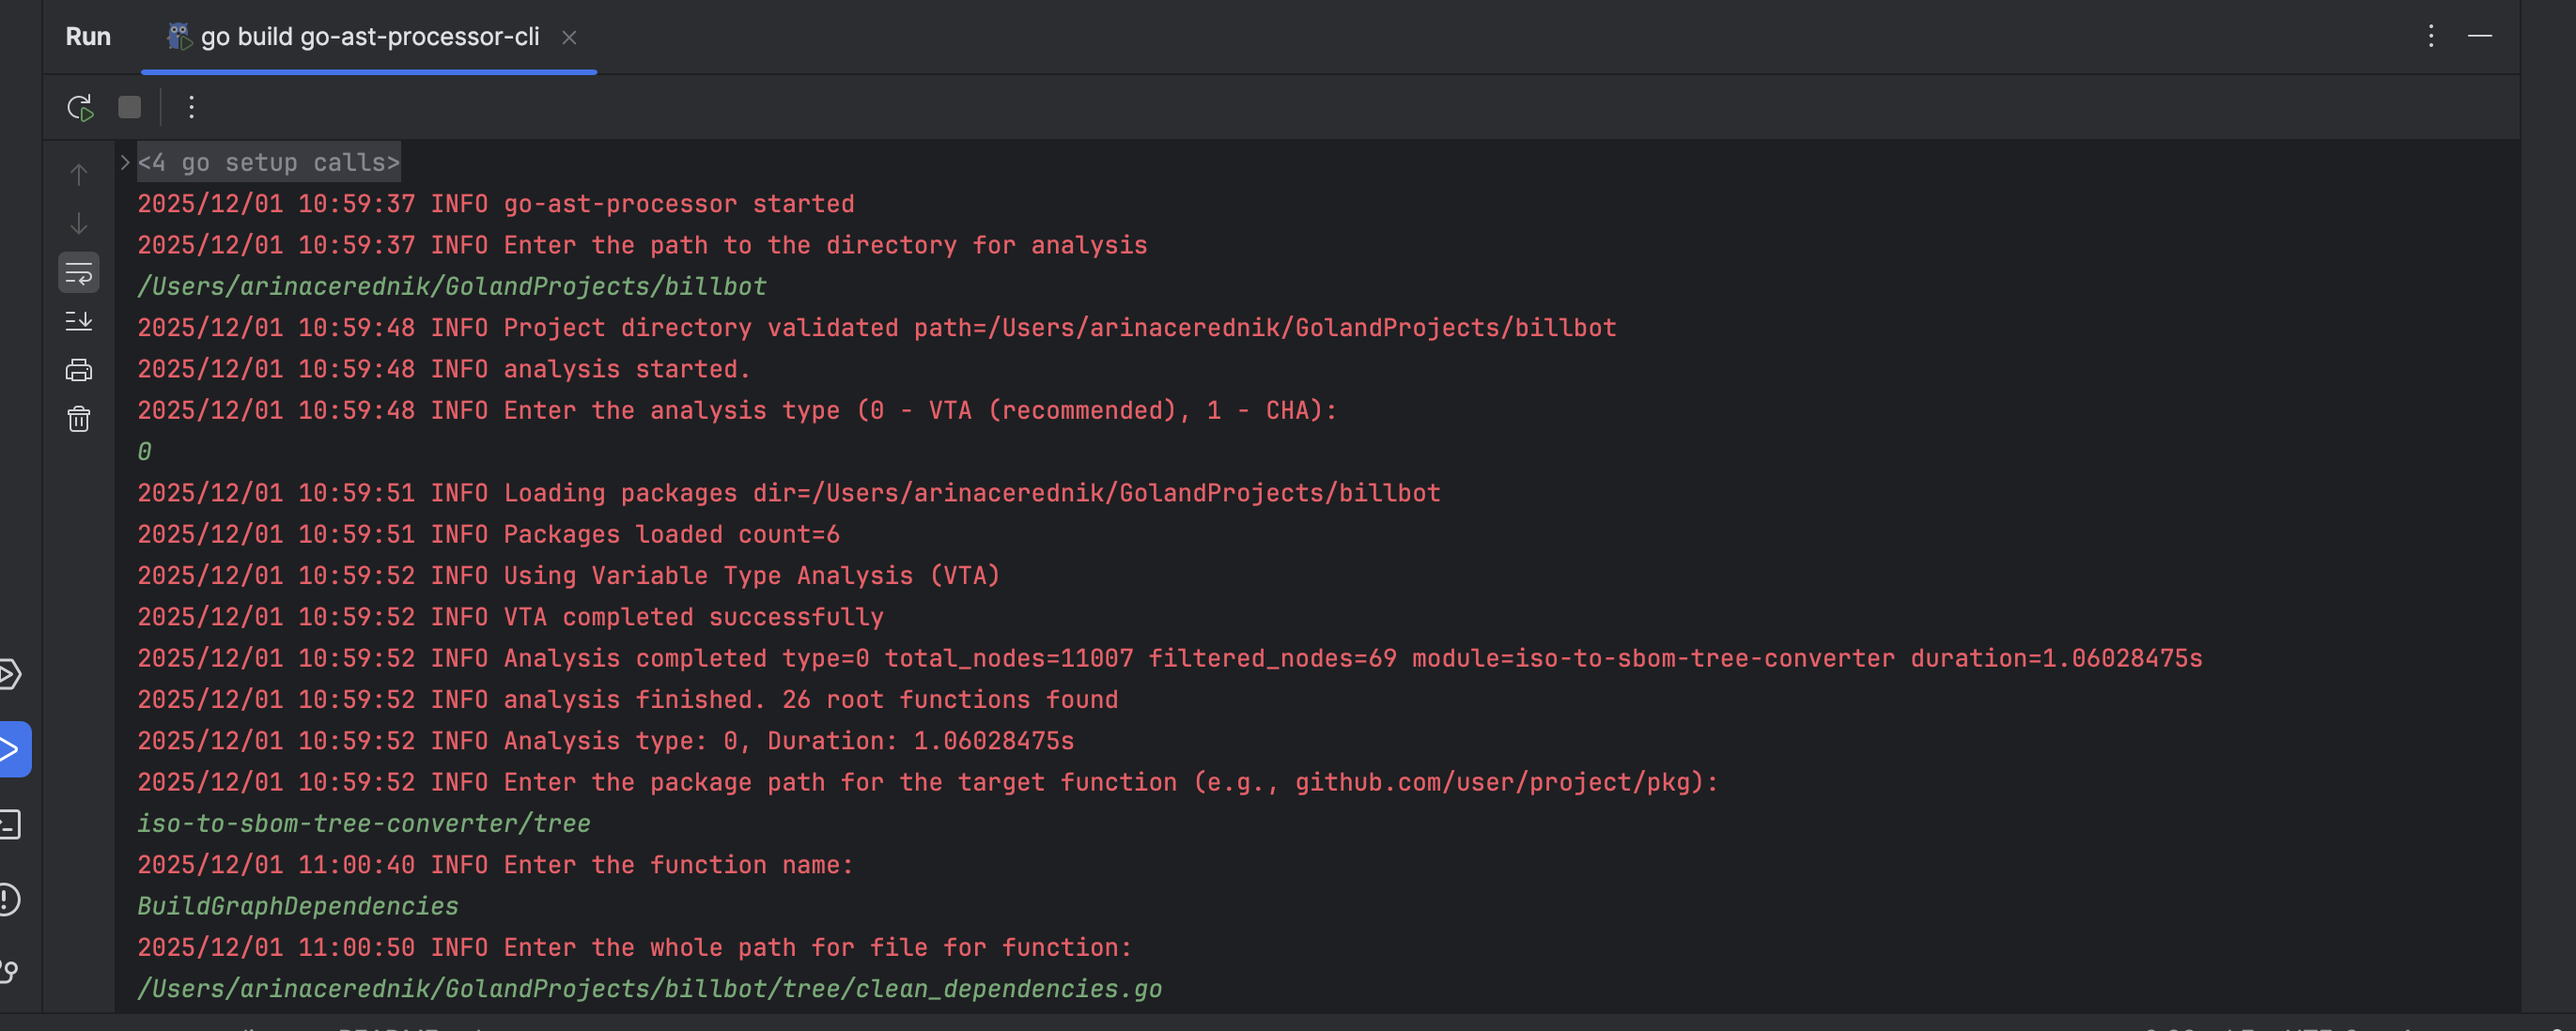
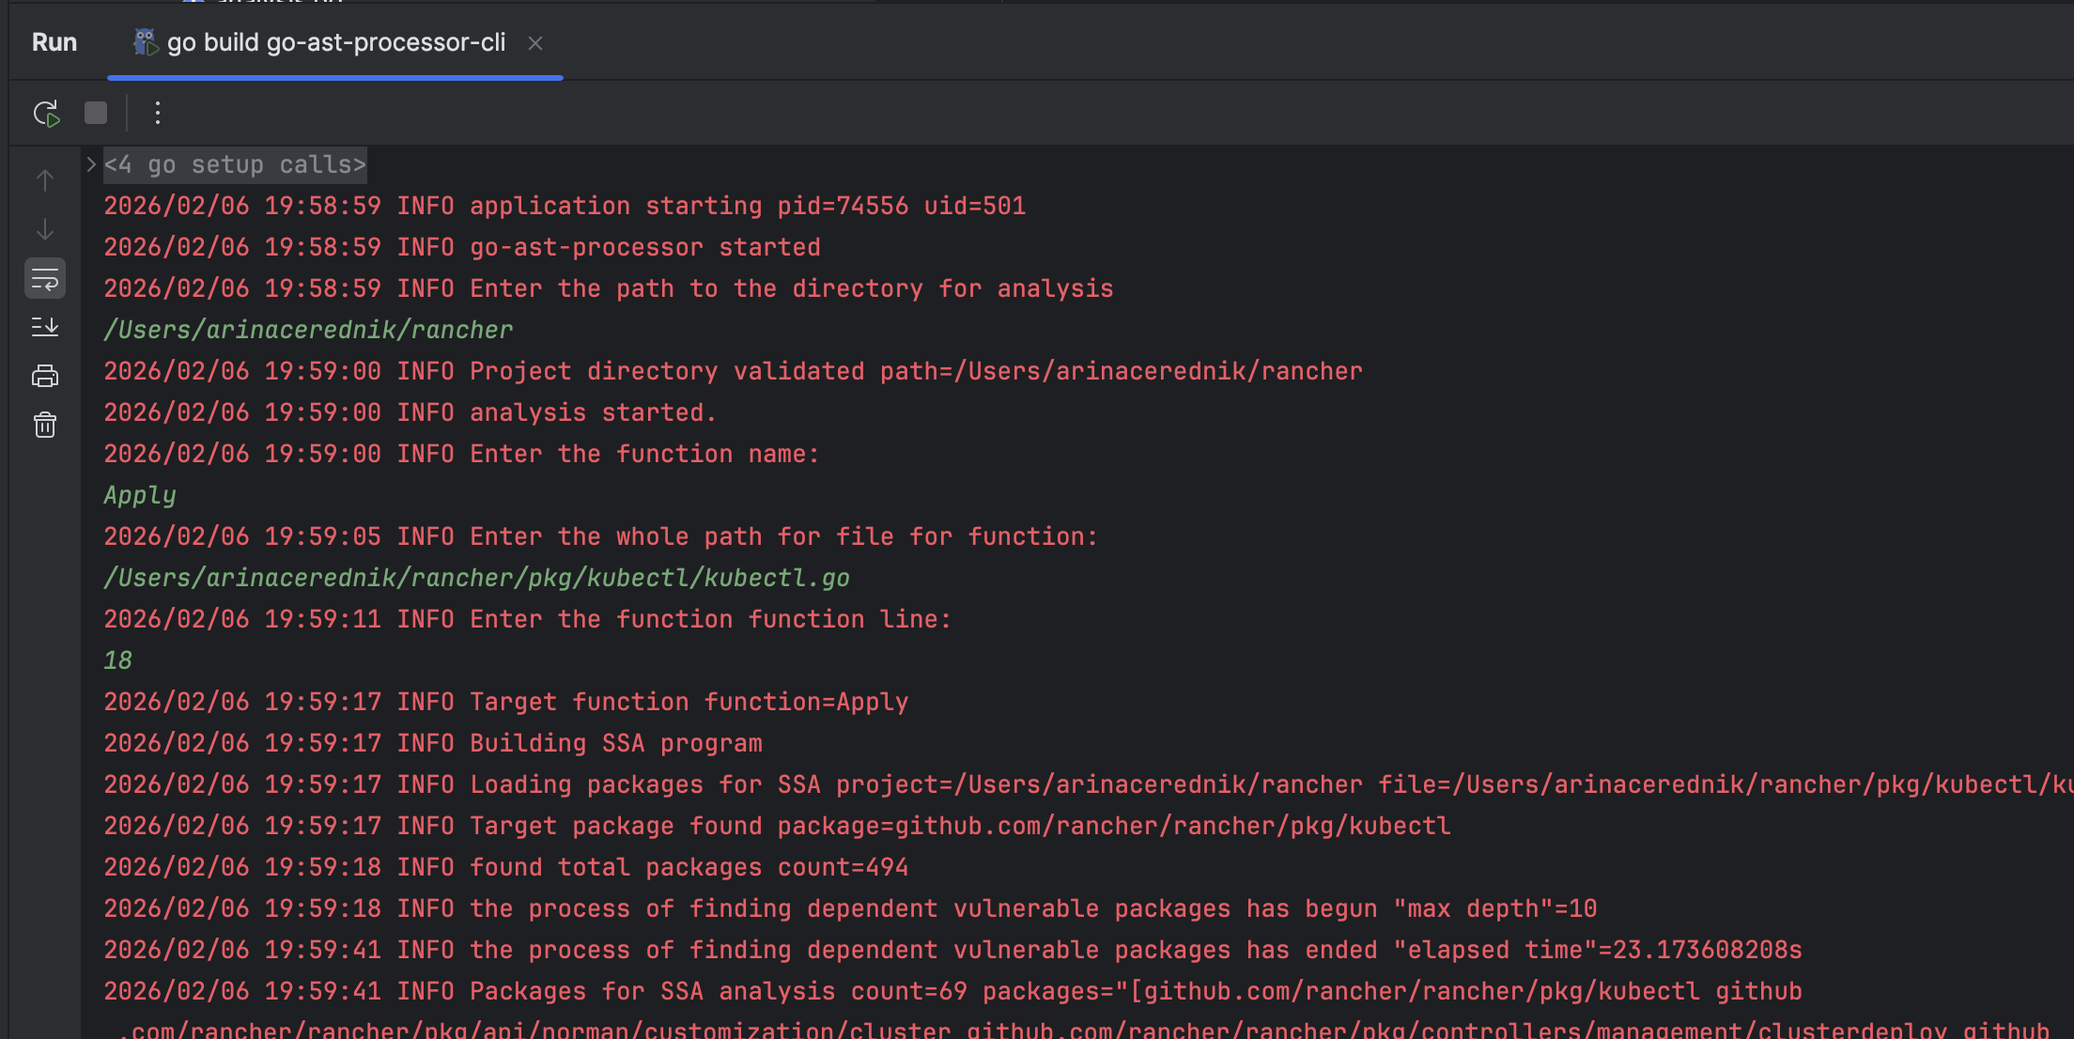
исправлен README.md

Changed region(s): [[0.0, 0.031, 1.0, 1.0]]

diff --git a/README.md b/README.md
@@ -7,28 +7,6 @@
 ![Ввод команд-1](local/img/cli_1.png)
 ![Ввод команд-2](local/img/cli_2.png)
 
-### Развитие функционала (Микросервисная архитектура)
-
-
-![Архитектура микросервисов](local/img/architecture.png)
-2 сервиса - source-acquirer (Java) + ast-processor (Go)
-
-Для отображения кода проще всего склонировать репозиторий в S3 - хранилище.
-Таким образом, в начале в ci/cd пайплайне вызывается ручка сервиса source-acquirer с ссылкой на gitlab.
-Далее, сервис source-acquirer клонирует репозиторий в S3-хранилище и создает задачу в кафке в очереди.
-
-Сервис go-ast-processor вычитывает сообщение из топика, загружает код из временного хранилище и строит граф вызовов в ассинхронном методе. При этом важно, что используется VTA.
-Получившийся граф сохраняется в графовую БД.
-Далее, через ci/cd осуществляется статический анализ кода, через semgrep, например, отчет отправляется через ручку go-ast-processor, для каждой функции в отчете уязвимостей строится граф с из графовой БД. 
-Вызывается третий микросервис для сервера хранения результатов анализа с обьединенным телом ответа от go-ast-processor.
-
-### Как быть с большими проектами? 
-
-Пусть алгоритм анализирует не целиком весь проект с помощью алгоритма VTA, а берет информацию из отчета об уязвимостей информацию о функции.
-Находим импорты пакетов в данном файле и затем проводим частичный анализ VTA в рамках конкретных пакетов. 
-Далее рассматриваем каждую функцию из графа вызовов, если есть необработанные пакеты в месте определения функции, проводим анализ повторно.
-Потенциально, именно этот алгоритм должен быть итоговым, но на первом этапе можно обработать целиком весь проект.
-Обработанные пакеты можно сохранять в redis для лучшей производительности до того, как все уязвимые функции будут обработаны.
 
 ### Идеи для развития
 
